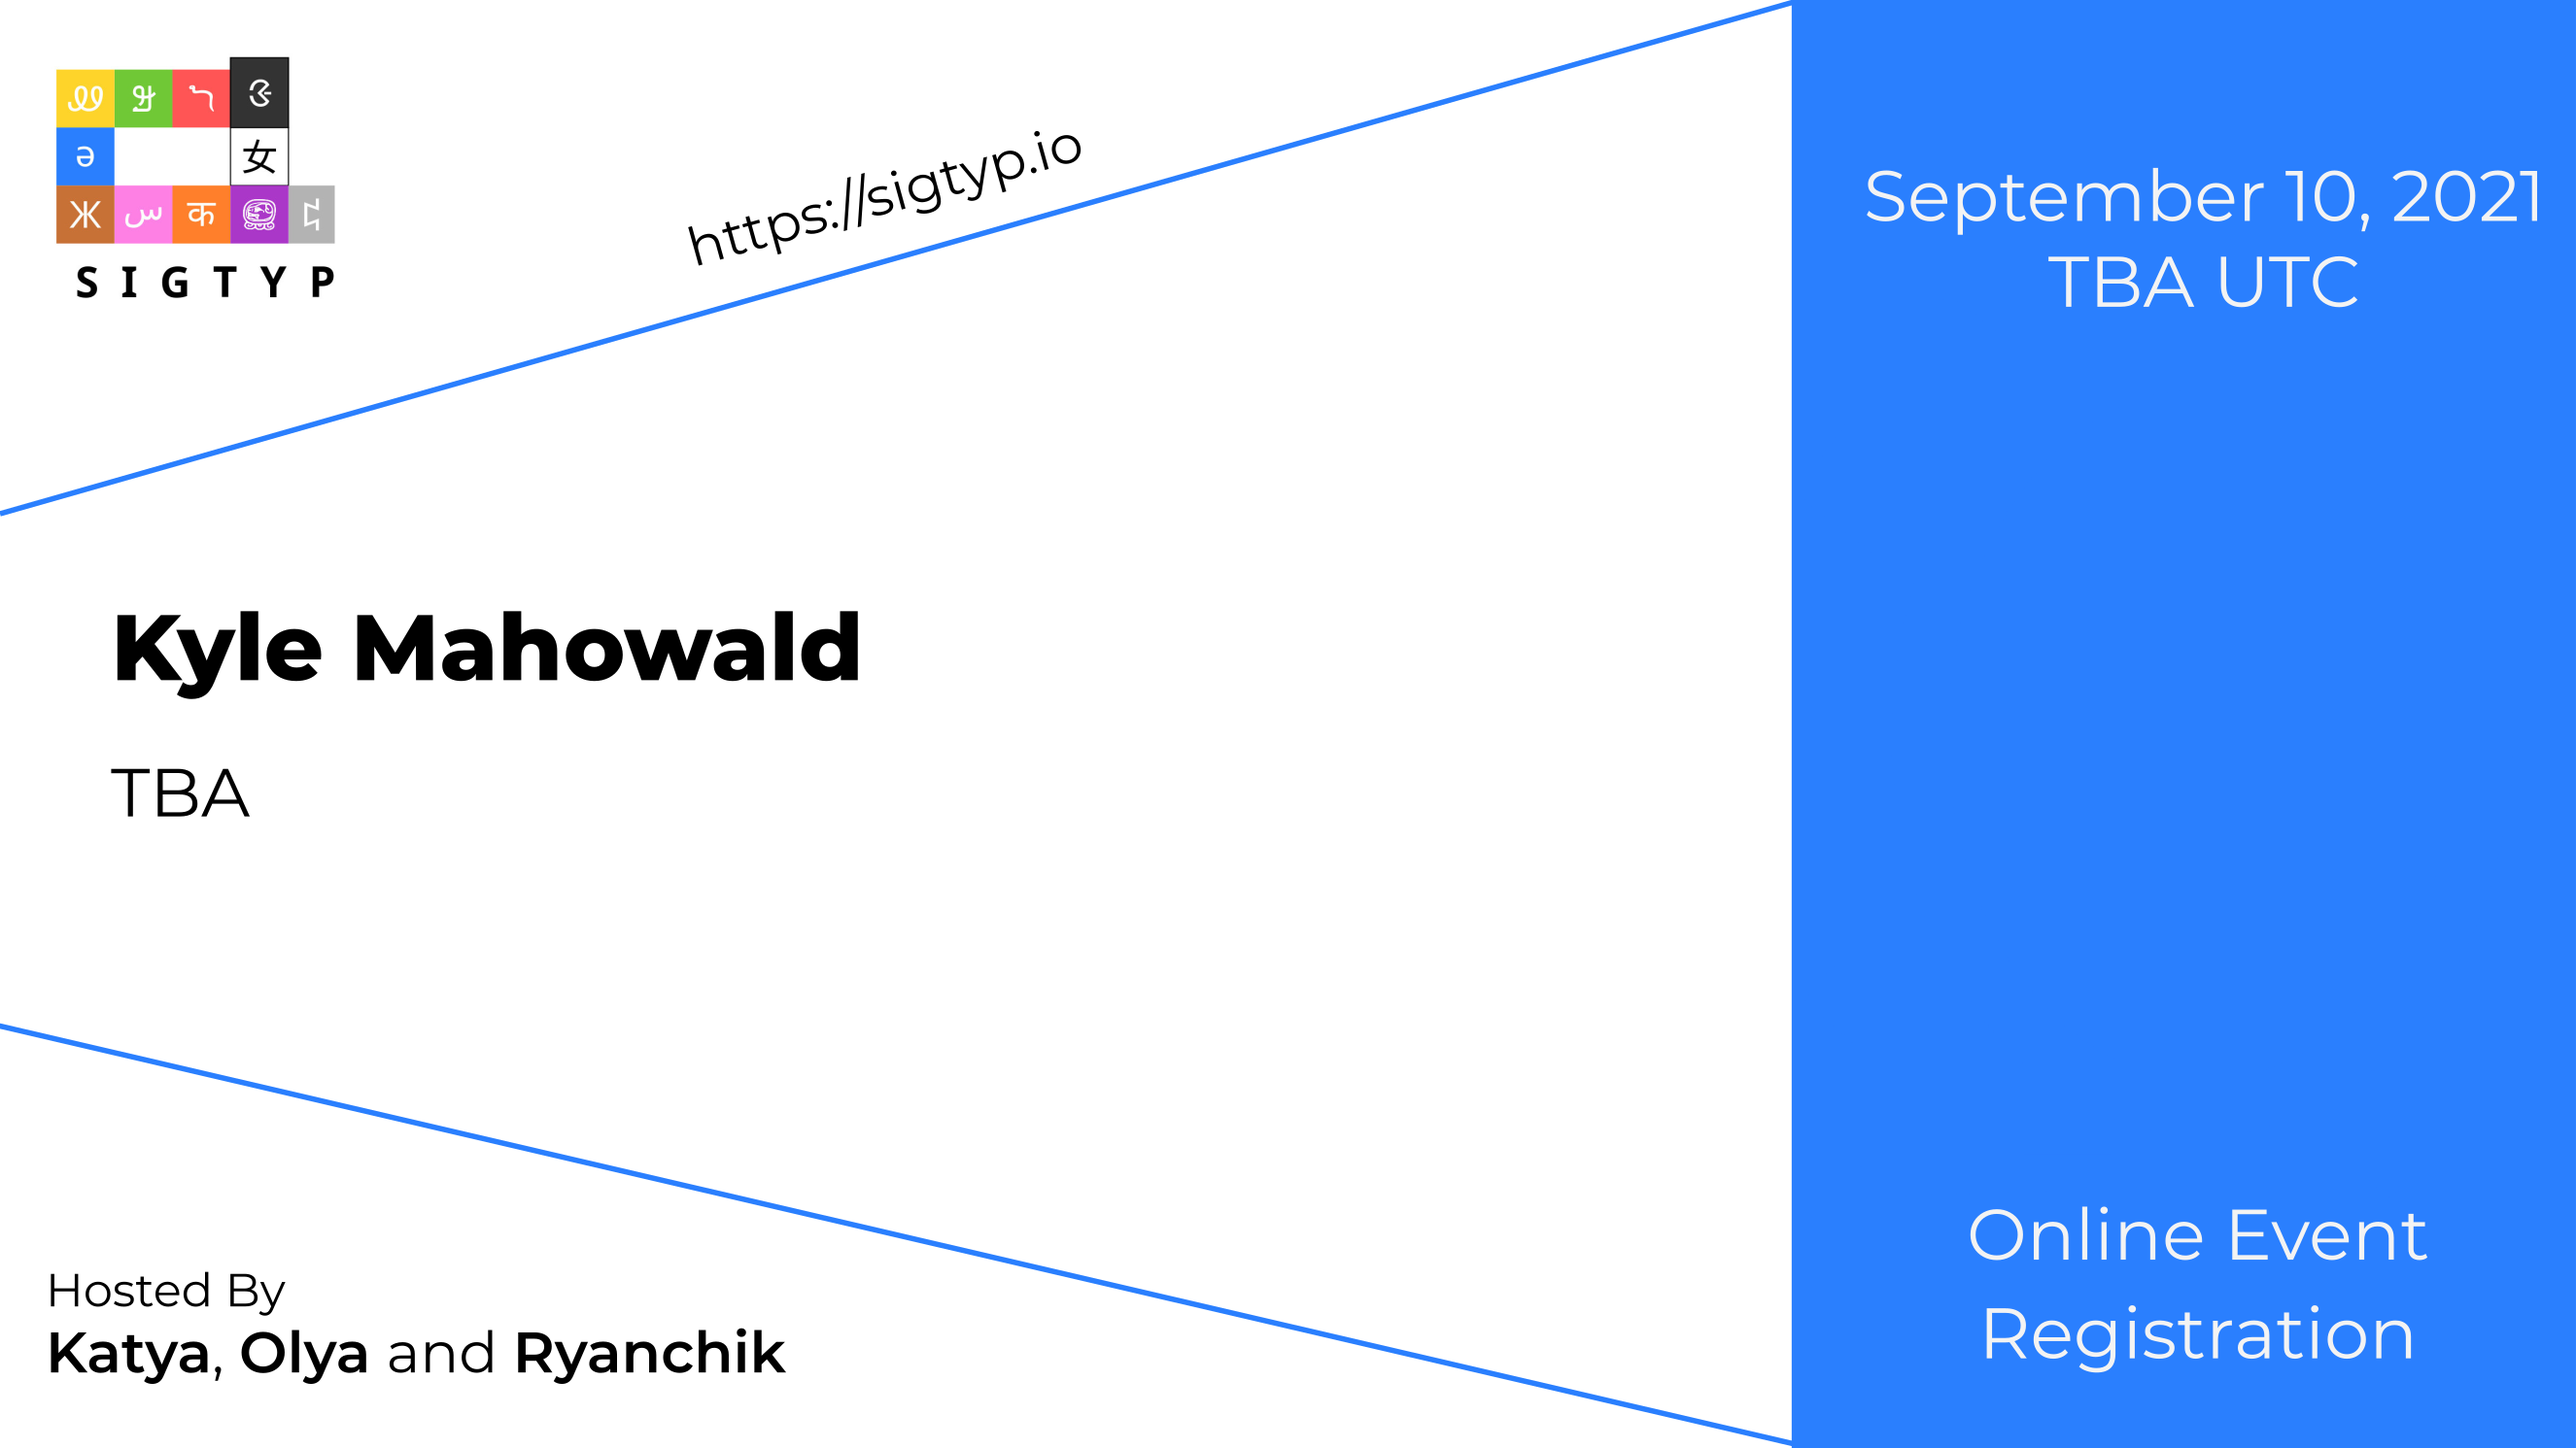
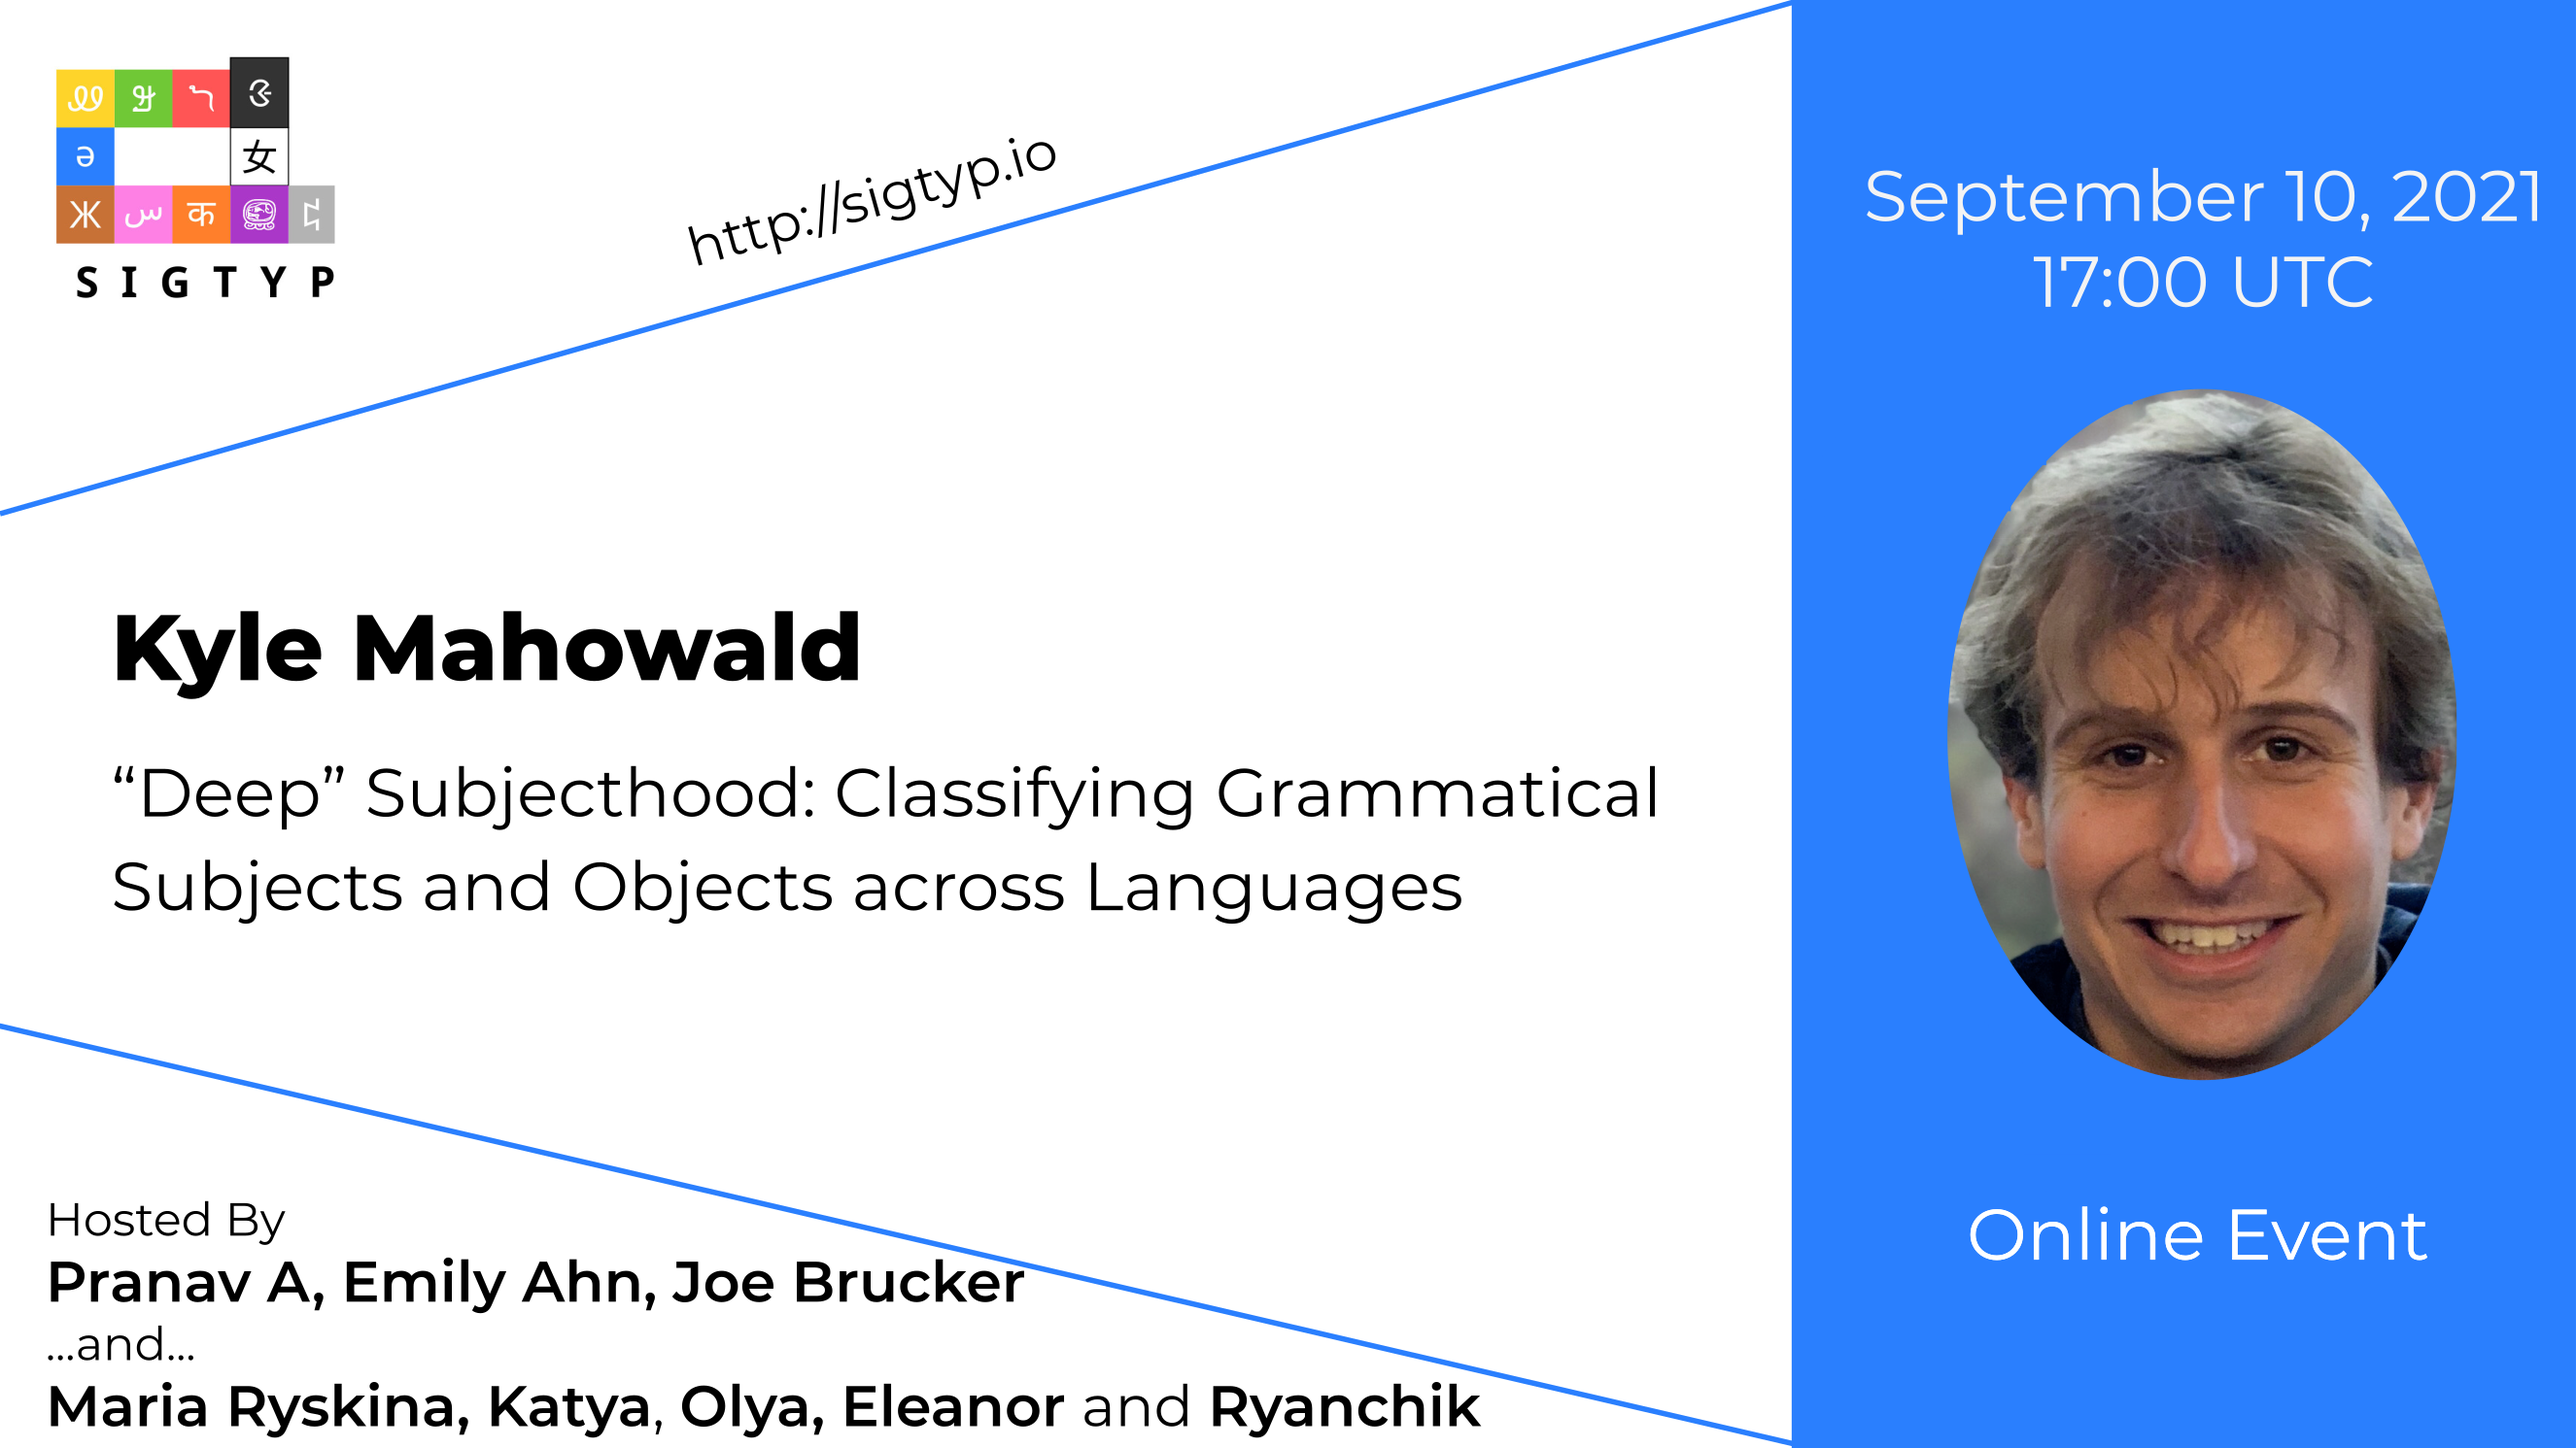
++kyle m

diff --git a/lectures.html b/lectures.html
@@ -404,16 +404,16 @@ img {vertical-align: middle;}
     <div class="text1"><a href="https://TBA">TBA</a></div>
   </div-->
 
-<div class="mySlides">
+<!--div class="mySlides">
     <div class="numbertext"></div>
     <a href="https://TBA" class="image full"><img src="lectures/speakers/kyle_gorman.png" style="width:100%"></a>
     <div class="text1"><a href="http://wellformedness.com/">On "Massively Multilingual" Natural Language Processing</a></div>
-  </div>
+  </div-->
 
 <div class="mySlides">
     <div class="numbertext"></div>
     <a href="https://TBA" class="image full"><img src="lectures/speakers/kyle_mahowald.png" style="width:100%"></a>
-    <div class="text1"><a href="https://TBA">TBA</a></div>
+    <div class="text1"><a href="https://mahowak.github.io/">“Deep” Subjecthood: Classifying Grammatical Subjects and Objects across Languages</a></div>
   </div>
 
   <!--div class="mySlides">
@@ -433,7 +433,7 @@ img {vertical-align: middle;}
 <br/> <br/>
 				
 <header>
-	<h2 style="font-size:28px">Summer 2021 Calendar</h2>
+	<h2 style="font-size:28px">Summer/Autumn 2021 Calendar</h2>
 </header>
 
 
@@ -737,6 +737,7 @@ Bio:<br/> Adina is a Research Scientist at Facebook AI Research in NYC. Her main
 <p align="left" style="color:red;font-size:16px">Kyle Gorman: On "Massively Multilingual" Natural Language Processing</p>
 <p align="left">
 Early work in speech & language processing was critiqued for an overwhelming focus on English (and a few other regionally hegemonic languages). In part, this reflected resource limitations of the time. In the first half of this talk, I will discuss various ways in which speech & language processing technologies can be said to be "monolingual" or "multilingual". I will identify several distinct tendencies pushing the field towards greater multilinguality and note some tensions between these various tendencies. In the second half of the talk I will discuss some of the work out of my lab exploiting free, massively multilingual data extracted from Wiktionary, a free online dictionary. These resources include UniMorph, a collection of morphological paradigms, and WikiPron, a collection of pronunciation dictionaries. I will discuss how these data are collected and vetted, and their use in a series of recent shared tasks hosted by special interest groups of the Association for Computational Linguistics.
+<iframe width="560" height="315" src="https://www.youtube.com/embed/0F8I1r8dP1U" title="YouTube video player" frameborder="0" allow="accelerometer; autoplay; clipboard-write; encrypted-media; gyroscope; picture-in-picture" allowfullscreen></iframe>
 <p  align="center"><a href="TBA"  class="button small">Slides</a>&nbsp;&nbsp;<a href="TBA"  class="button small">BiliBili</a>&nbsp;&nbsp;<a href="https://sigtyp.inf.ethz.ch/channel/lecture-gorman"  class="button small">RocketChat</a>&nbsp;&nbsp;<a href="http://wellformedness.com/"  class="button small">Website</a></p>
        </div>
       </div>
@@ -745,15 +746,15 @@ Early work in speech & language processing was critiqued for an overwhelming foc
 <div class="panel panel-default">
       <div class="panel-heading">
         <h4 class="panel-title">
-          <a data-toggle="collapse" data-parent="#accordion" href="#lecture-mahowald">[10/09/2021] Kyle Mahowald</a>
+          <a data-toggle="collapse" data-parent="#accordion" href="#lecture-mahowald">[10/09/2021] Kyle Mahowald: “Deep” Subjecthood: Classifying Grammatical Subjects and Objects across Languages</a>
         </h4>
       </div>
       <div id="lecture-mahowald" class="panel-collapse collapse">
         <div class="panel-body" style="align: center; text-align:center">
 <p align="left" style="color:red;font-size:16px"></p>
 <p align="left">
-TBA
-<p  align="center"><a href="TBA"  class="button small">Slides</a>&nbsp;&nbsp;<a href="TBA"  class="button small">BiliBili</a>&nbsp;&nbsp;<a href="https://sigtyp.inf.ethz.ch/channel/lecture-mahowald"  class="button small">RocketChat</a>&nbsp;&nbsp;<a href="https://TBA"  class="button small">Website</a></p>
+What do contextual embedding models know about grammatical subjects and objects, and how does that knowledge vary typologically? To explore that question, I will present a variety of results, probing both humans and machines using a bespoke subject/object classification task. In the first part of the talk, I will show that type-level embeddings can explain a large part of the variance in whether a given noun is a subject, but that there are cases in which contextual models play a crucial role. In the second part of the talk, I explore subject/object classification in Multilingual BERT on both transitive and intransitive sentences, across languages that vary in morphosyntactic alignment. In particular, I explore how a classifier trained on transitive subjects and objects classifies held-out intransitive subjects, comparing the model performance within and across nominative/accusative and ergative/absolutive languages. I consider the implications of these results for linguistic theories of subjecthood.
+<p  align="center"><a href="TBA"  class="button small">Slides</a>&nbsp;&nbsp;<a href="TBA"  class="button small">BiliBili</a>&nbsp;&nbsp;<a href="https://sigtyp.inf.ethz.ch/channel/lecture-mahowald"  class="button small">RocketChat</a>&nbsp;&nbsp;<a href="https://mahowak.github.io/"  class="button small">Website</a></p>
        </div>
       </div>
     </div>
